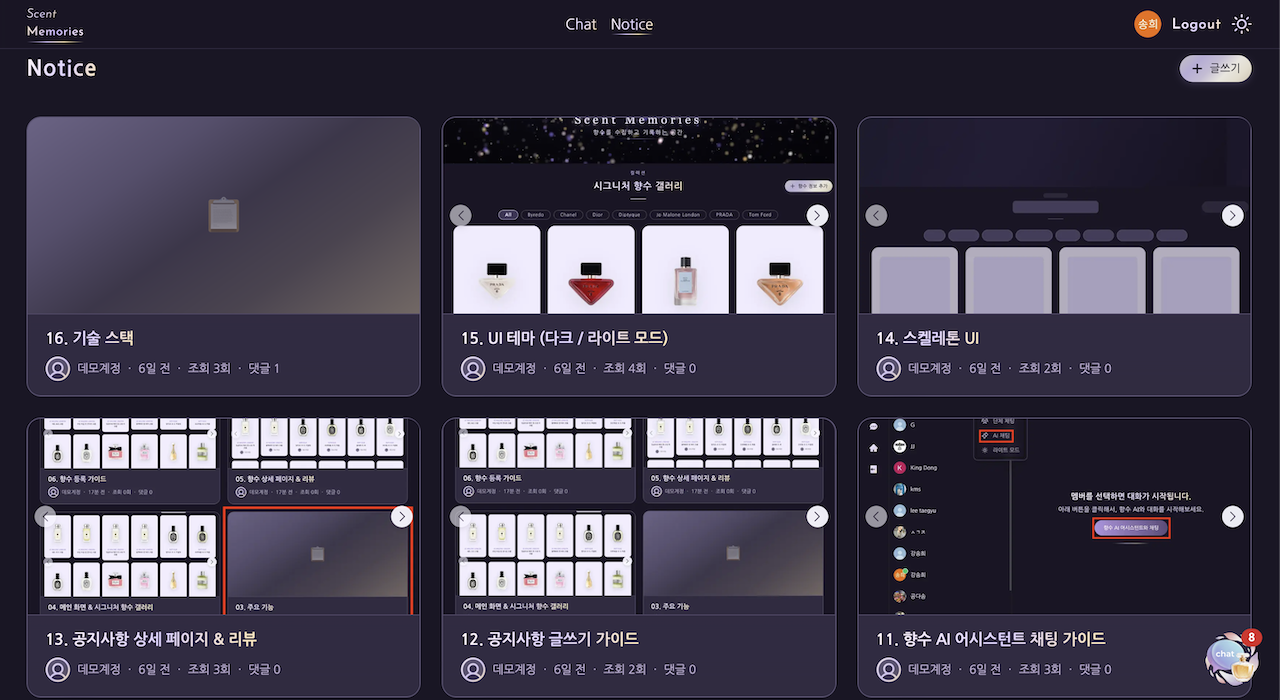
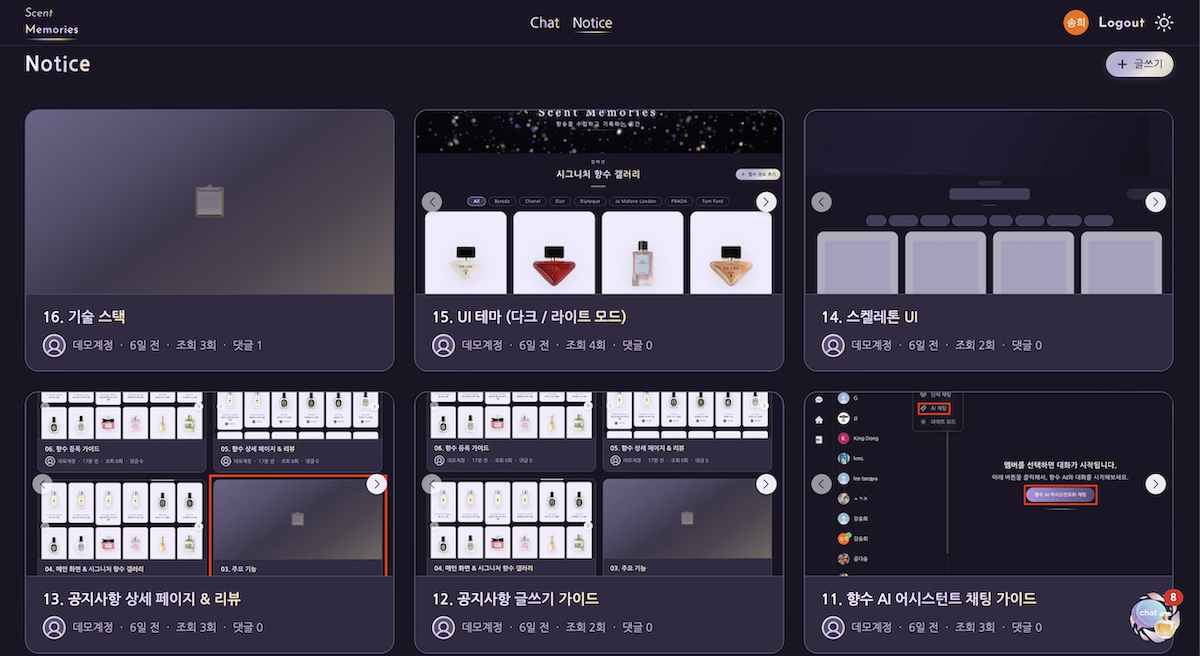
fix(notice): SEO 메타데이터 - 이미지 크기 가로 1200으로 변경

diff --git a/next-server/src/app/(main)/notice/layout.tsx b/next-server/src/app/(main)/notice/layout.tsx
@@ -13,7 +13,7 @@ export const metadata: Metadata = {
       {
         url: '/image/metadata/notice.png',
         width: 1200,
-        height: 700,
+        height: 656,
         alt: 'Scent Memories 공지사항',
       },
     ],
